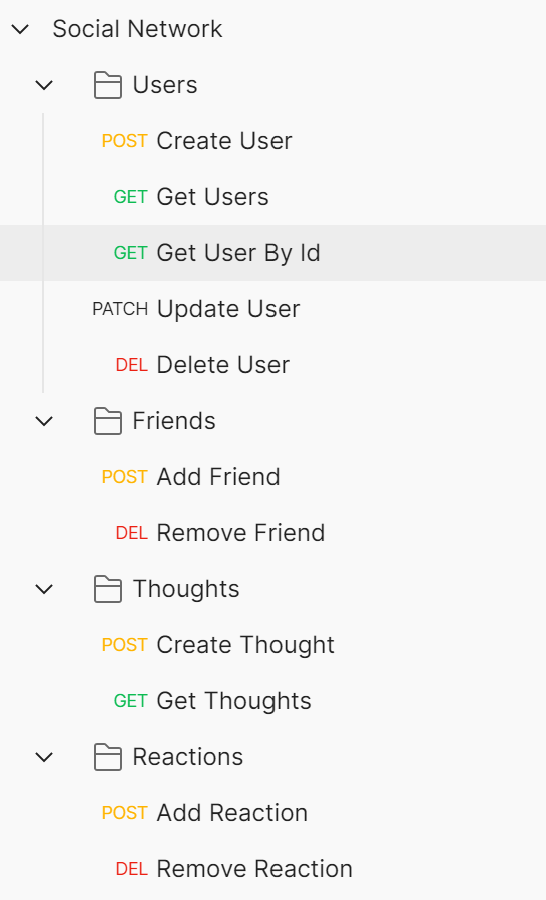
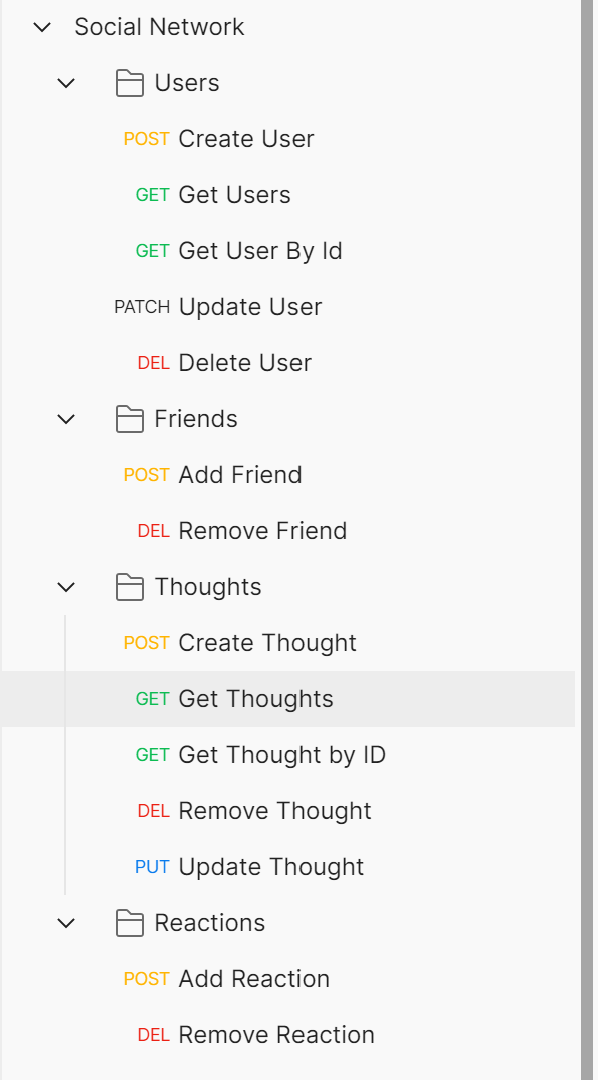
add put, delete, getbyID routes

diff --git a/controllers/thoughtsController.js b/controllers/thoughtsController.js
@@ -6,6 +6,16 @@ module.exports = {
       .then((thoughts) => res.json(thoughts))
       .catch((err) => res.status(500).json(err));
   },
+  getThoughtbyId(req, res) {
+    Thoughts.findOne({ _id: req.params.thoughtId })
+      .select("-__v")
+      .then(async (thought) =>
+        !thought
+          ? res.status(404).json({ message: "No thought with that ID" })
+          : res.json(thought)
+      )
+      .catch((err) => res.status(500).json(err));
+  },
   createThought(req, res) {
     Thoughts.create(req.body)
       .then((thoughts) => {
@@ -26,6 +36,31 @@ module.exports = {
         console.log(err);
         res.status(500).json(err);
       });
+  },
+  updateThought(req, res) {
+    Thoughts.findOneAndUpdate(
+      { _id: req.params.thoughtId },
+      { $set: req.body },
+      { runValidators: true, new: true }
+    )
+      .then((thought) =>
+        !thought
+          ? res.status(404).json({ message: "No thought with this id!" })
+          : res.json(thought)
+      )
+      .catch((err) => {
+        console.log(err);
+        res.status(500).json(err);
+      });
+  },
+  deleteThought(req, res) {
+    Thoughts.findOneAndDelete({ _id: req.params.thoughtId })
+      .then((thought) =>
+        !thought
+          ? res.status(404).json({ message: "No thought with that ID" })
+          : res.json({ message: "Thought and associated reactions deleted!" })
+      )
+      .catch((err) => res.status(500).json(err));
   },
   createReaction(req, res) {
     Thoughts.findOneAndUpdate(

diff --git a/routes/api/thoughtRoutes.js b/routes/api/thoughtRoutes.js
@@ -2,12 +2,20 @@ const router = require("express").Router();
 const {
   getThoughts,
   createThought,
+  getThoughtbyId,
   createReaction,
   deleteReaction,
+  deleteThought,
+  updateThought,
 } = require("../../controllers/thoughtsController");
 
 // /api/thoughts
 router.route("/").get(getThoughts).post(createThought);
+router
+  .route("/:thoughtId")
+  .get(getThoughtbyId)
+  .put(updateThought)
+  .delete(deleteThought);
 router.route("/:thoughtId/reactions").post(createReaction);
 router.route("/:thoughtId/reactions/:reactionId").delete(deleteReaction);
 
